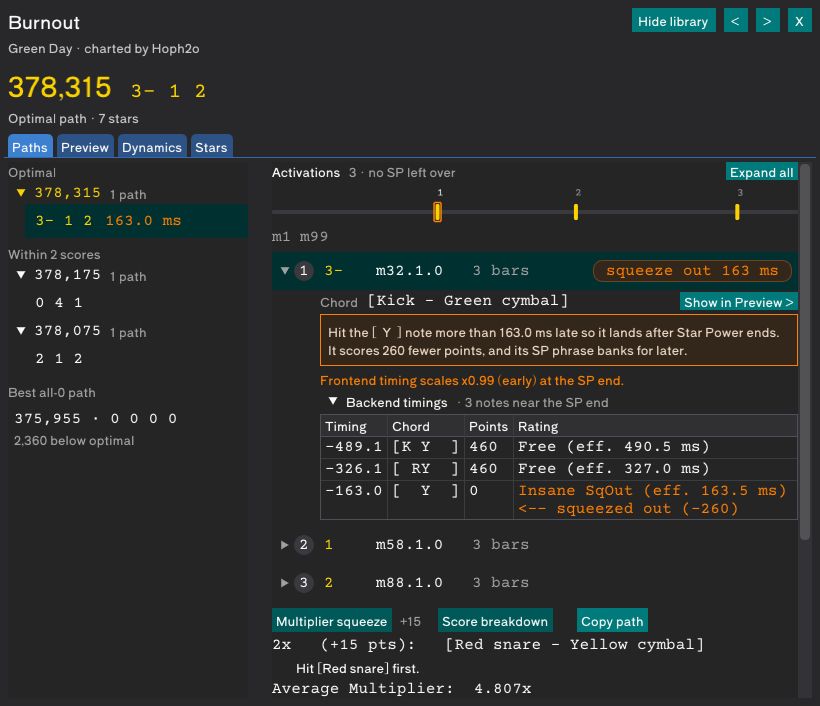
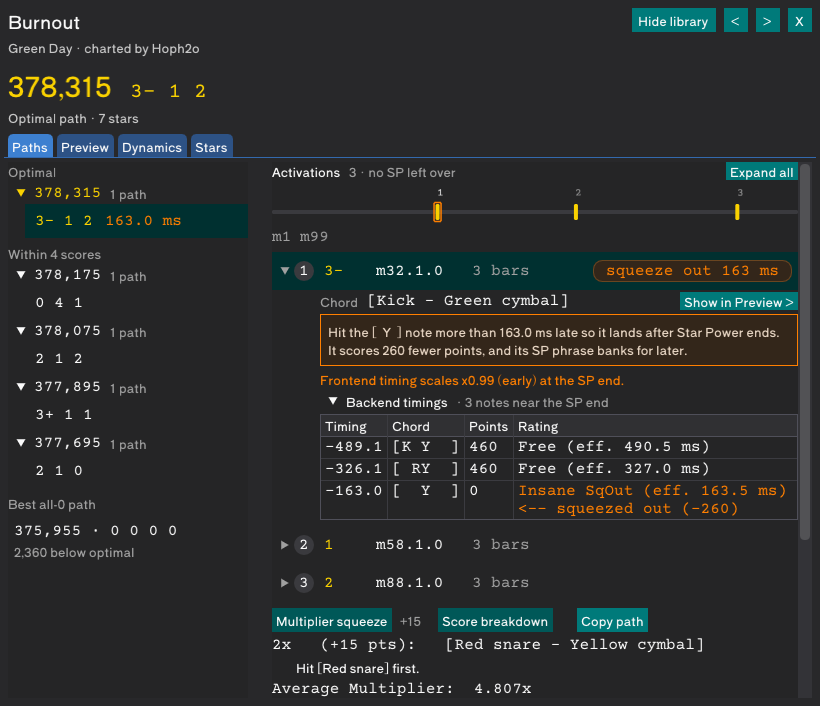
Doc screenshots: reset the settings to defaults before the first picture
The runner keeps Score range 2, so the pictures showed non-default settings. shots.txt now clicks Reset to defaults and checks the button reads defaults. Re-ran the capture; every picture re-read.

Task: doc-shots-t2-review
Agent: ae39cd86a5de90c69
Session: 93098c69-494a-4d96-9f4d-fad943c79089

diff --git a/docs/agents/doc-screenshots.md b/docs/agents/doc-screenshots.md
@@ -22,7 +22,7 @@ The script stops with a message naming `.\build_cpp.ps1 -Target hydra_uitest` wh
 
 Run it before each release, so the pictures match the app that ships. Also run it after any change to a label or a layout that one of the pictures shows. Then open every changed picture and check it still shows what its caption says, and that no hover tooltip or version text crept in. Commit the changed pictures on a branch and get them reviewed like any other change.
 
-The runner's scratch settings are not all defaults: they keep a score range of 2, so its settings button reads `Analysis settings: Score range 2 scores`, and the settings picture and the Paths tab show that range. Say so in a caption that names the settings, rather than changing the runner.
+The runner's scratch settings are not all defaults (they keep a smaller score range, for one). The first lines of `shots.txt` open the settings popup and click `Reset to defaults`, then check that the settings button reads `Analysis settings: defaults`, so every picture shows default settings. The runner itself stays as it is.
 
 ## The one list of pictures
 
